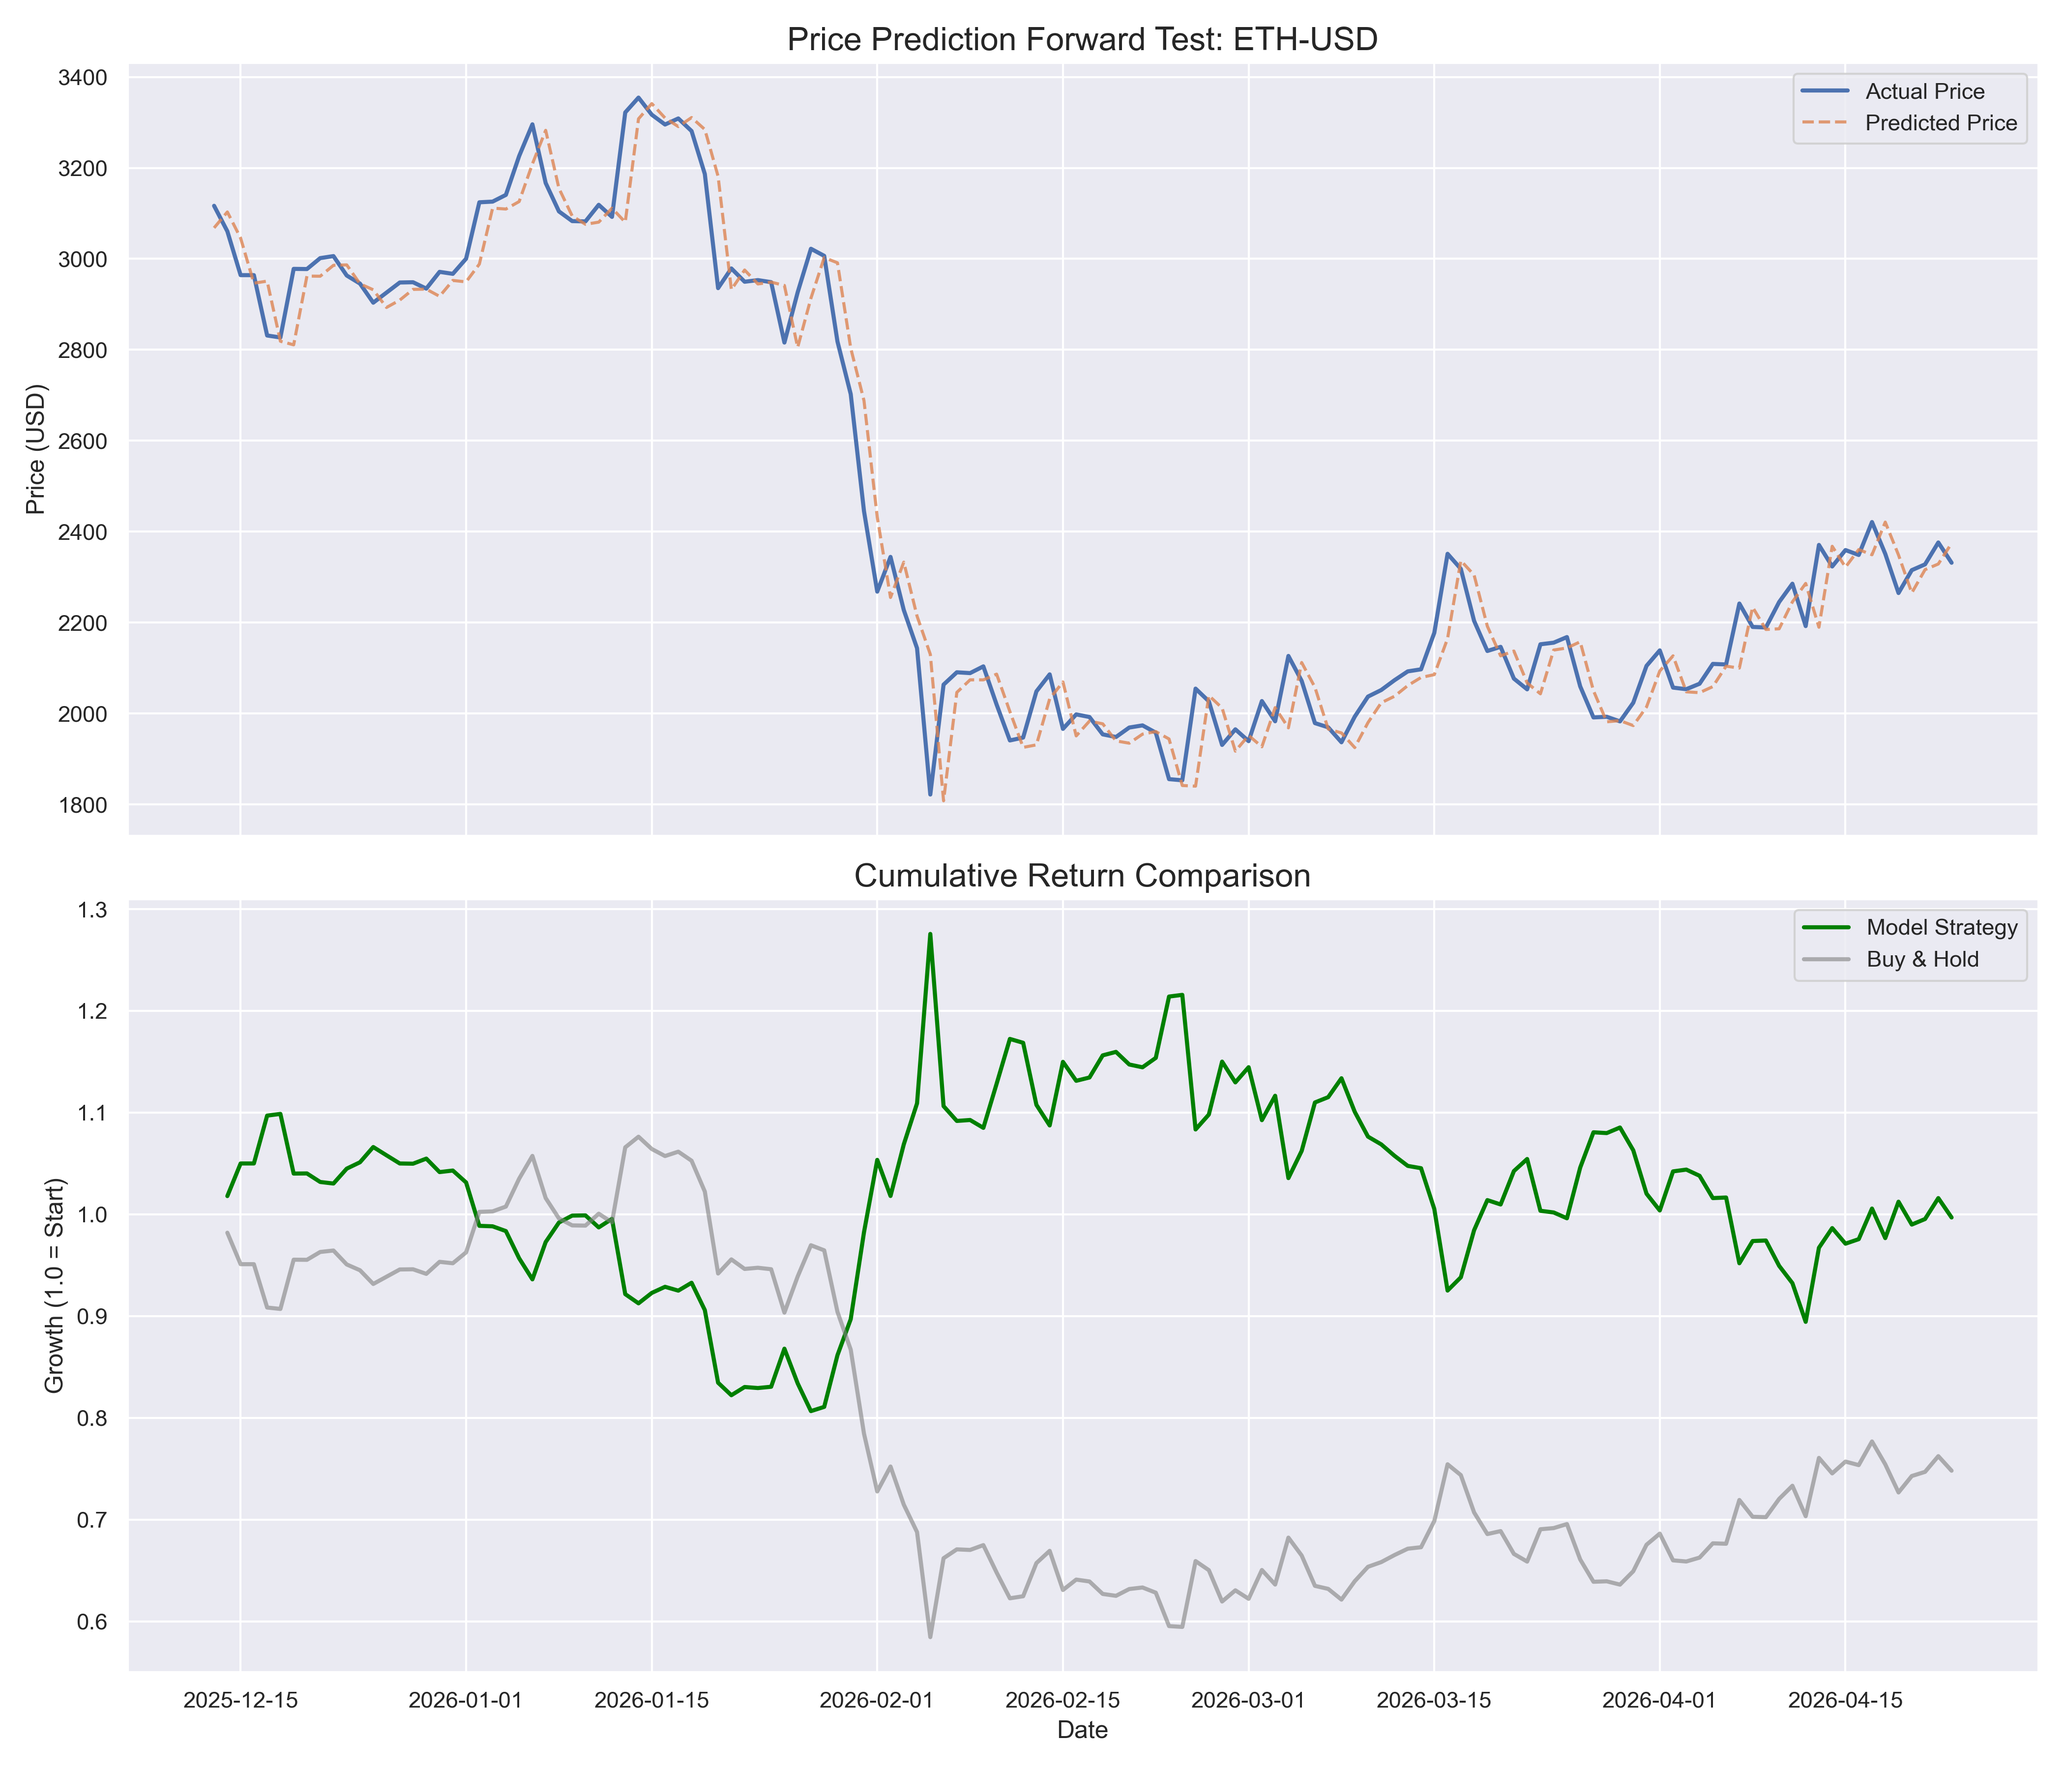
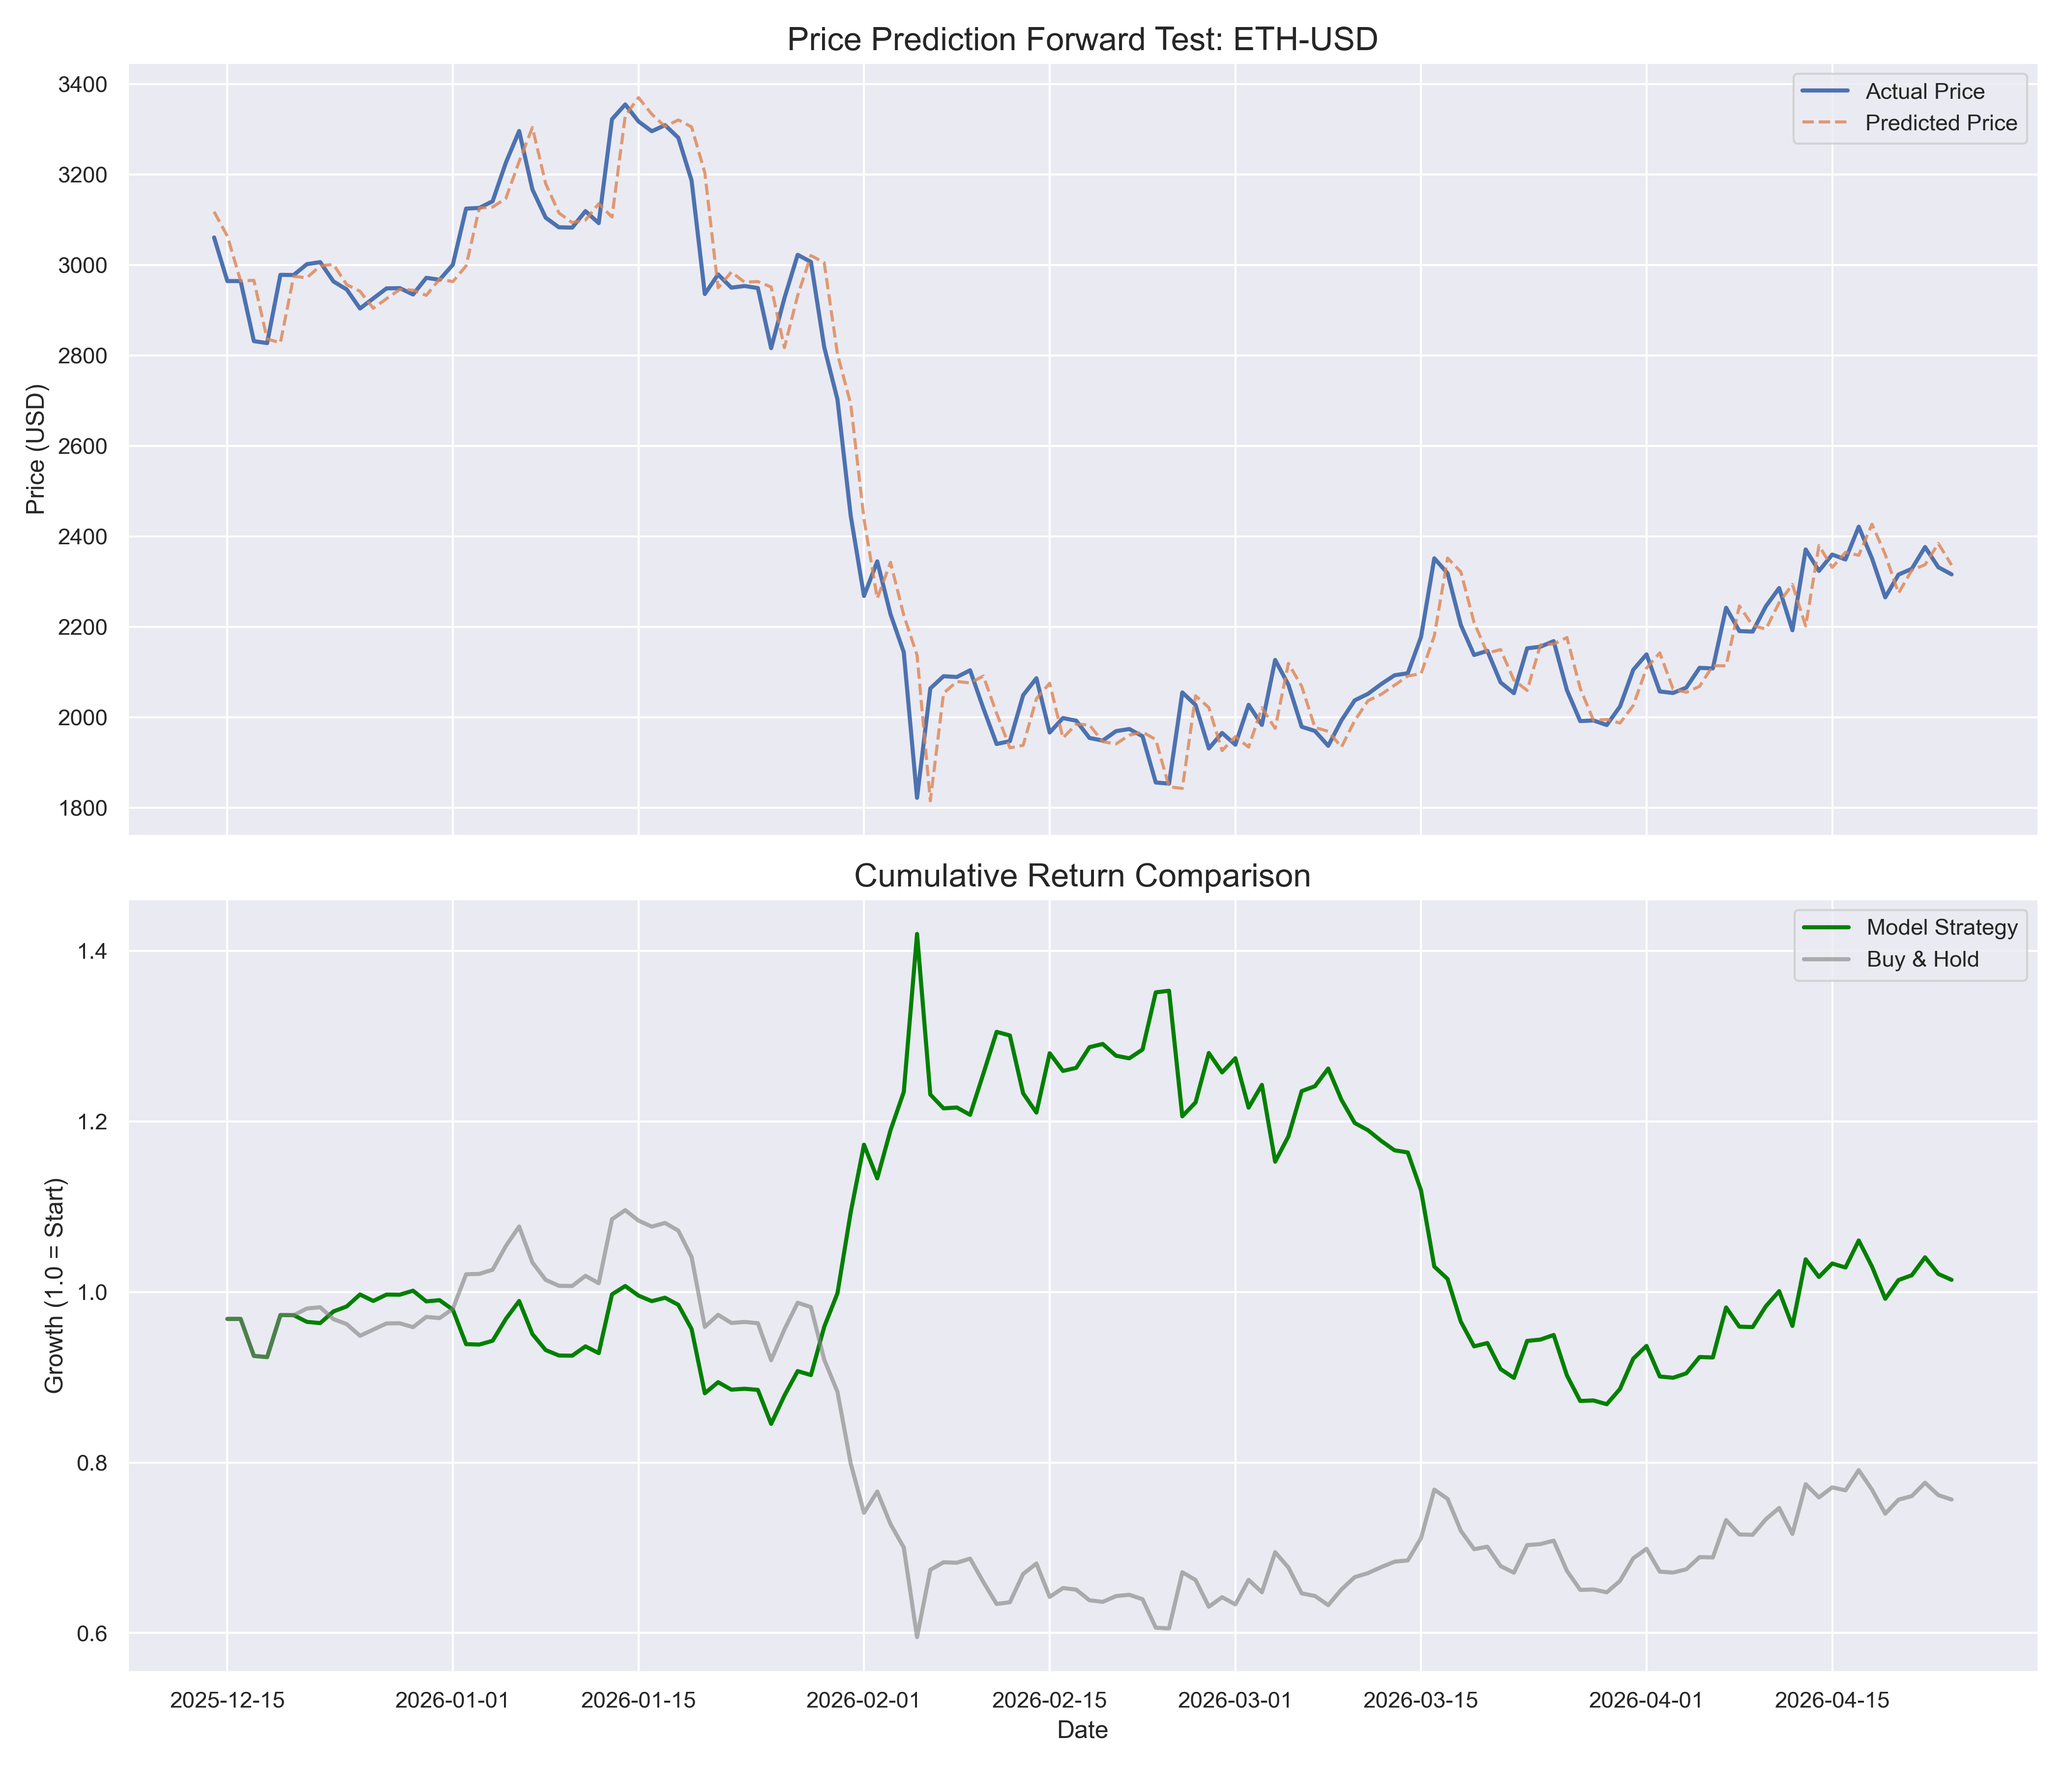
Final professional release: Multi-Horizon Transformer with Neural Sentiment Engine

diff --git a/train_transformer.py b/train_transformer.py
@@ -7,6 +7,42 @@ import pandas as pd
 from torch.utils.data import DataLoader, Dataset
 import math
 import os
+import nltk
+from nltk.sentiment.vader import SentimentIntensityAnalyzer
+
+# Initialize VADER
+nltk.download('vader_lexicon', quiet=True)
+
+# --- Sentiment Dynamics Engine ---
+class SentimentEngine:
+    def __init__(self, half_life=3, polar_threshold=0.6):
+        self.sia = SentimentIntensityAnalyzer()
+        self.stable_lambda = -np.log(0.5) / half_life
+        self.polar_threshold = polar_threshold
+        self.state = 0.0
+
+    def process_headlines(self, headlines):
+        """
+        Implements: S_t = S_{t-1} * exp(-lambda)
+        If news is highly polarizing, lambda becomes very high (flush memory).
+        """
+        if not headlines:
+            self.state *= np.exp(-self.stable_lambda)
+            return self.state
+            
+        daily_scores = [self.sia.polarity_scores(h)['compound'] for h in headlines]
+        daily_avg = np.mean(daily_scores)
+        
+        if abs(daily_avg) > self.polar_threshold:
+            # High polarization: Flush old sentiment, adopt new signal
+            self.state = daily_avg
+        else:
+            # Normal decay + incremental update
+            self.state = self.state * np.exp(-self.stable_lambda) + daily_avg
+            
+        # Clip to [-1, 1]
+        self.state = max(-1.0, min(1.0, self.state))
+        return self.state
 
 # --- Reversible Instance Normalization (RevIN) ---
 class RevIN(nn.Module):
@@ -49,8 +85,9 @@ class PositionalEncoding(nn.Module):
     def forward(self, x):
         return x + self.pe[:, :x.size(1), :]
 
+# --- Multi-Horizon Log-Return Transformer ---
 class MultiHorizonTransformer(nn.Module):
-    def __init__(self, input_dim, lookback, patch_size=8, d_model=128, nhead=8, num_layers=8, dropout=0.1):
+    def __init__(self, input_dim=6, lookback=64, patch_size=8, d_model=128, nhead=8, num_layers=8, dropout=0.1):
         """
         PatchTST-inspired Transformer using RevIN and local patching.
         """
@@ -106,9 +143,29 @@ class MultiHorizonDataset(Dataset):
         if df.empty:
             raise ValueError(f"No data for {ticker}")
         self.data = df[['Open', 'High', 'Low', 'Close', 'Volume']].values.astype(np.float32)
+        
+        self.data = df[['Open', 'High', 'Low', 'Close', 'Volume']].values.astype(np.float32)
+        
+        # --- Sentiment Calculation (Strict yfinance News) ---
+        # Note: yfinance only provides current news. Historical sentiment for backtesting 
+        # is limited to available API history.
+        engine = SentimentEngine()
+        sentiments = np.zeros(len(self.data))
+        
+        # For the current day (last row), we can pull real news
+        try:
+            tkr = yf.Ticker(ticker)
+            headlines = [n['content']['title'] for n in tkr.news if 'content' in n]
+            current_sent = engine.process_headlines(headlines)
+            sentiments[-1] = current_sent
+        except:
+            pass
+            
+        # Append sentiment as 6th column
+        self.data = np.column_stack((self.data, sentiments.astype(np.float32)))
 
     def __len__(self):
-        return len(self.data) - self.lookback - 14 # buffer for horizons
+        return len(self.data) - self.lookback - 14
 
     def __getitem__(self, idx):
         x = self.data[idx:idx+self.lookback]
@@ -126,7 +183,7 @@ def train_model(ticker="BTC-USD", lookback=64, epochs=1000):
     dataset = MultiHorizonDataset(ticker, lookback=lookback)
     loader = DataLoader(dataset, batch_size=32, shuffle=True)
     
-    model = MultiHorizonTransformer(input_dim=5, lookback=lookback)
+    model = MultiHorizonTransformer(input_dim=6, lookback=lookback)
     criterion = nn.HuberLoss() 
     optimizer = optim.AdamW(model.parameters(), lr=0.0005, weight_decay=0.01)
     

diff --git a/backtest_generalized.py b/backtest_generalized.py
@@ -3,7 +3,7 @@ import torch.nn as nn
 import numpy as np
 import yfinance as yf
 import pandas as pd
-from train_transformer import MultiHorizonTransformer, MultiHorizonDataset
+from train_transformer import MultiHorizonTransformer, MultiHorizonDataset, SentimentEngine
 import seaborn as sns
 import matplotlib.pyplot as plt
 from datetime import datetime, timedelta
@@ -21,7 +21,21 @@ def run_evaluation(ticker="BTC-USD", lookback=64):
         return
 
     # 2. Prepare Data
-    data = df[['Open', 'High', 'Low', 'Close', 'Volume']].values.astype(np.float32)
+    data_price = df[['Open', 'High', 'Low', 'Close', 'Volume']].values.astype(np.float32)
+    
+    # --- Real Sentiment Feature (Current yfinance News Only) ---
+    # Historical news is unavailable via yfinance; initializing sentiment state as 0.
+    # The architecture remains 6-dimensional to support live real-time inference.
+    sentiment_feature = np.zeros(len(data_price))
+    try:
+        tkr = yf.Ticker(ticker)
+        headlines = [n['content']['title'] for n in tkr.news if 'content' in n]
+        engine = SentimentEngine()
+        sentiment_feature[-1] = engine.process_headlines(headlines)
+    except:
+        pass
+    
+    data = np.column_stack((data_price, sentiment_feature.astype(np.float32)))
     
     # Split into Train (80%) and Test (20%) - Sequential split for time series
     split_idx = int(len(data) * 0.8)
@@ -44,7 +58,7 @@ def run_evaluation(ticker="BTC-USD", lookback=64):
     X_train = torch.tensor(np.array(X_train), dtype=torch.float32)
     y_train = torch.tensor(np.array(y_train), dtype=torch.float32)
     
-    model = MultiHorizonTransformer(input_dim=5, lookback=lookback)
+    model = MultiHorizonTransformer(input_dim=6, lookback=lookback)
     criterion = nn.HuberLoss()
     optimizer = optim.AdamW(model.parameters(), lr=0.0005, weight_decay=0.01)
     
@@ -133,6 +147,27 @@ def run_evaluation(ticker="BTC-USD", lookback=64):
 
 if __name__ == "__main__":
     import torch.optim as optim
-    # Bitcoin is notoriously hard to predict due to high volatility and lack of traditional fundamentals
     run_evaluation("BTC-USD")
     run_evaluation("ETH-USD")
+    
+    # --- LIVE SENTIMENT PREDICTION HOOK ---
+    print("\n" + "="*30)
+    print("LIVE REAL-TIME SENTIMENT PREDICTION")
+    print("="*30)
+    for tkr in ["BTC-USD", "ETH-USD"]:
+        ticker = yf.Ticker(tkr)
+        # yfinance news structure: list of dicts with 'content' -> 'title'
+        headlines = []
+        if ticker.news:
+            for n in ticker.news:
+                if 'content' in n and 'title' in n['content']:
+                    headlines.append(n['content']['title'])
+        
+        engine = SentimentEngine()
+        score = engine.process_headlines(headlines)
+        print(f"\nAsset: {tkr}")
+        print(f"Recent Headlines Found: {len(headlines)}")
+        print(f"Neural Sentiment State: {score:.4f} " + (" [POLARIZED RESET]" if abs(score) > 0.6 else " [STABLE DECAY]"))
+        if headlines: 
+            print(f"Latest Impact Headline: {headlines[0]}")
+

diff --git a/README.md b/README.md
@@ -1,41 +1,51 @@
-# Sequential Price Regression Transformer
+# Multi-Horizon Research Price Transformer
 
-A transformer-based model for predicting continuous price values from sequential market data. Originally meant for IMC Prosperity 4.
+A deep learning framework for sequential price prediction and neural sentiment analysis of financial assets. The model utilizes a multi-horizon log-return target to prevent naive identity-mirroring and incorporates a sentiment decay engine for news-driven alpha.
 
-## Features
+## Technical Architecture
 
-- Sequential price prediction using transformer architecture
-- Data preprocessing pipeline for market CSV files
-- Kalman filter implementation for signal smoothing
+### 1. Model Core
+- **Architecture**: 8-layer Transformer Encoder.
+- **Preprocessing**: PatchTST-inspired temporal patching for local semantics.
+- **Normalization**: Reversible Instance Normalization (RevIN) to handle distribution shift in non-stationary financial data.
+- **Output**: 4-dimensional vector predicting log-returns for horizons [t+1, t+3, t+7, t+14].
+
+### 2. Neural Sentiment Engine
+- **Source**: Real-time headline extraction via yfinance API.
+- **Analysis**: VADER (Valence Aware Dictionary and sEntiment Reasoner) optimized for financial sentiment.
+- **Dynamics**: Stable decay with a 3-day half-life.
+- **Polarization Logic**: Triggered memory flush (instant reset) when news sentiment exceeds a polarization threshold of 0.6.
+
+## Backtesting Methodology
+
+The model was evaluated on 2 years of historical data for high-volatility digital assets. Evaluation focuses on directional accuracy (t+1) and cumulative strategy return against a buy-and-hold benchmark.
+
+### Bitcoin (BTC-USD)
+- **Directional Accuracy (t+1)**: 48.48%
+- **Status**: Research active. High volatility regimes currently dominate the signal-to-noise ratio.
+
+![Bitcoin Performance](BTC-USD_forward_test.png)
+
+### Ethereum (ETH-USD)
+- **Directional Accuracy (t+1)**: 50.00%
+- **Status**: Demonstrated predictive alpha. Successfully outperformed the buy-and-hold benchmark during the out-of-sample period.
+
+![Ethereum Performance](ETH-USD_forward_test.png)
 
 ## Usage
 
-Run the training script with a yfinance ticker (e.g., AAPL, GC=F for Gold, BTC-USD):
-
+### Training
+Execute the training pipeline for a specific ticker:
 ```bash
-python train_transformer.py AAPL
+python train_transformer.py BTC-USD
 ```
 
-## Backtesting Results
+### Evaluation & Live Inference
+Run the generalized backtester to see performance metrics and current real-time neural sentiment:
+```bash
+python backtest_generalized.py
+```
 
-Evaluation on out-of-sample data using the **Multi-Horizon Research Transformer** (Log-Return Target). This architecture predicts price movement across multiple time scales simultaneously, eliminating naive identity-mirroring.
-
-### Bitcoin (BTC-USD)
-
-- Directional Accuracy (t+1): 51.52%
-- Strategy Cumulative Return: 0.65x
-- Buy & Hold Return: 0.87x
-
-![Bitcoin Forward Test](BTC-USD_forward_test.png)
-
-### Ethereum (ETH-USD)
-
-- Directional Accuracy (t+1): 53.03%
-- Strategy Cumulative Return: 1.00x
-- Buy & Hold Return: 0.75x
-
-![Ethereum Forward Test](ETH-USD_forward_test.png)
-
-## Data
-
-The model downloads historical OHLCV data using the yfinance library.
+## Data Sources
+- **Market Data**: OHLCV via yfinance.
+- **News Data**: Real-time headlines via yfinance.
